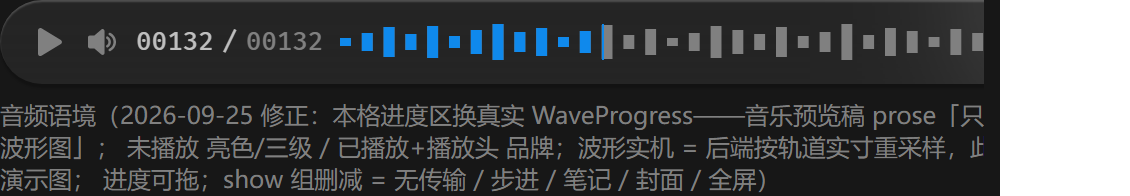
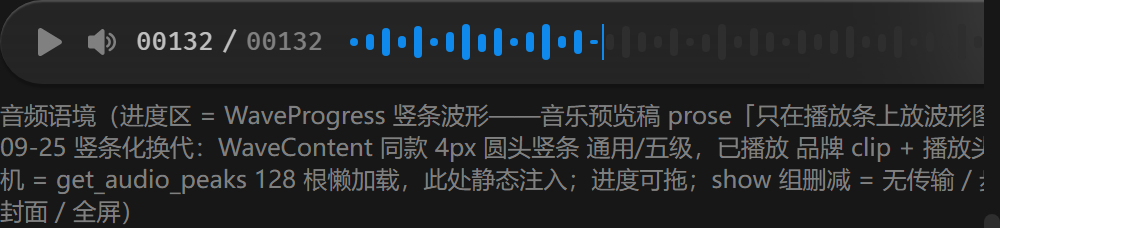
feat(波形): 播放条波形竖条化——WaveProgress 复用 WaveContent 统一全 app 波形观感（4px 圆头竖条 + get_audio_peaks 128 根），5.1 发丝 hires 图方案退役；PlayBarSpec.waveFallback 简化为 wave 族标志；get_waveform 全链删除（速查 §59 追加）

Changed region(s): [[0.0, 0.4592, 0.8982, 0.9796], [0.031, 0.0918, 0.8673, 0.3061], [0.8053, 0.3673, 0.8982, 0.4286]]

diff --git a/src/components/bars/WaveProgress.vue b/src/components/bars/WaveProgress.vue
@@ -1,29 +1,39 @@
 <script setup lang="ts">
-// 音频波形进度条（音乐预览稿 prose：「只在播放条上放波形图即可」）——播放条进度条的音频变体，
-// 供 FloatBarPlay #progress 插槽替换 BarSlider（2026-09-09 预览悬浮栏接入轮，自旧 PlayBarAudio 移植）：
-// 两层 div 以波形图作 CSS mask（alpha 通道铺满）：底层 = 未播放 亮色/三级实色（旧 wave-pending
-// 「标签档不透明版」2026-08-10 用户定的语义档映射——mask 层不受 alpha 影响须实色）；
-// 已播放层 = 品牌底 clip-path 裁到进度；播放头 1px 品牌竖线。
-// 波形图 = 后端按轨道实际像素重采样（useHiresWaveform 返回磁盘路径，本组件 convertFileSrc 转
-// asset URL——裸路径塞 CSS url() 必加载失败，踩坑 088），未就绪/失败回退 info 波形缩略图（fallbackUrl，
-// 调用方已转换）。
+// 音频波形进度条（2026-09-25 竖条化换代，用户定：全 app 波形观感统一为文件卡片-音频稿竖条
+// 新样式——卡片 WaveContent / 详情 pinned 均已同源，播放条是最后一处旧 5.1 发丝渲染）：
+// 渲染 = WaveContent 直接复用（竖线 4px 圆头 99 gap 4 通用/五级，played 同构层品牌色 clip 进度），
+// 播放条语境差两笔 = inset 12→0 满幅、played 层祖先态显隐→恒显（下方 :deep 覆盖）；
+// 数据 = get_audio_peaks 128 根 cardPeaksFor 懒加载（SectionPinned 同范式），peaks 失败 = 空波形；
+// 播放头 1px 品牌竖线保留。旧 hires 重采样图 + CSS mask 方案退役（get_waveform 全链删除）。
 // 交互 = pointerdown 跳值 + window pointermove 拖动（BarSlider 同款链路，drag-start/end 透传 scrubbing 挂钩）。
-import { computed, ref } from "vue";
-import { convertFileSrc } from "@tauri-apps/api/core";
-import { useHiresWaveform } from "../../lib/useHiresWaveform";
+import { ref, watch } from "vue";
+import WaveContent from "../cards/contents/WaveContent.vue";
+import { cardPeaksFor } from "../../lib/cardPeaks";
+import { usePreviewStore } from "../../stores/preview";
 
-const props = withDefaults(defineProps<{ fallbackUrl?: string | null }>(), { fallbackUrl: null });
+const props = withDefaults(defineProps<{ peaks?: number[] }>(), { peaks: undefined });
 const model = defineModel<number>({ default: 0 }); // 0~1
 const emit = defineEmits<{ "drag-start": []; "drag-end": [] }>();
 
+const preview = usePreviewStore();
 const rootEl = ref<HTMLElement>();
-const hiresPath = useHiresWaveform(rootEl);
-// hiresPath 是磁盘绝对路径——必须 convertFileSrc 转 asset URL（裸路径塞 CSS url() 按相对
-// 地址解析必然加载失败：mask 空 = 层不可见只剩播放头，2026-09-25 实机报，踩坑 088）；
-// fallbackUrl 已由调用方（barSpecs audio waveFallback）转换好，不再二转
-const waveUrl = computed(() => (hiresPath.value ? convertFileSrc(hiresPath.value) : (props.fallbackUrl ?? null)));
-// 两层 mask 共用的图地址（CSS 变量下发，mask 走 alpha 通道）
-const waveMask = computed(() => (waveUrl.value ? { "--wave-url": `url("${waveUrl.value}")` } : {}));
+
+// peaks 懒加载（SectionPinned 同范式：await 期间切素材防错配）；props.peaks 提供 = 演示注入优先
+const fetchedPeaks = ref<number[]>([]);
+watch(
+  () => preview.current,
+  async (cur) => {
+    if (!cur) {
+      fetchedPeaks.value = [];
+      return;
+    }
+    const id = cur.assetId;
+    const p = await cardPeaksFor(cur);
+    if (preview.current?.assetId !== id) return;
+    fetchedPeaks.value = p;
+  },
+  { immediate: true },
+);
 
 function setFromX(clientX: number): void {
   const el = rootEl.value;
@@ -47,17 +57,15 @@ function onDown(e: PointerEvent): void {
 </script>
 
 <template>
-  <div ref="rootEl" class="wp-root" :style="waveMask" style="touch-action: none" @pointerdown="onDown">
-    <template v-if="waveUrl">
-      <div class="wave-layer base" />
-      <div class="wave-layer played" :style="{ clipPath: `inset(0 ${(1 - model) * 100}% 0 0)` }" />
-    </template>
+  <div ref="rootEl" class="wp-root" style="touch-action: none" @pointerdown="onDown">
+    <WaveContent :peaks="props.peaks ?? fetchedPeaks" :progress="model" />
     <span class="head" :style="{ left: `${model * 100}%` }" />
   </div>
 </template>
 
 <style scoped>
-/* 根：满父宽、满播放条内容高（42 - padding 12×2 = 18），圆角 4 裁波形（沿用旧口径） */
+/* 根：满父宽、满播放条内容高（42 - padding 12×2 = 18，父 .fbp-progress align-self stretch 供给，
+   §59），圆角 4 裁波形（沿用旧口径） */
 .wp-root {
   position: relative;
   width: 100%;
@@ -66,23 +74,13 @@ function onDown(e: PointerEvent): void {
   overflow: hidden;
   cursor: pointer;
 }
-.wave-layer {
-  position: absolute;
+/* WaveContent 播放条语境差：卡片 inset 12 → 满幅 0；played 扫过层卡片靠祖先 hover/playing 显隐
+   （.fc-root 语境）→ 播放条恒显（进度本色语义，无悬停概念） */
+.wp-root :deep(.fc-wave) {
   inset: 0;
-  -webkit-mask-image: var(--wave-url);
-  mask-image: var(--wave-url);
-  -webkit-mask-size: 100% 100%;
-  mask-size: 100% 100%;
-  -webkit-mask-repeat: no-repeat;
-  mask-repeat: no-repeat;
-  pointer-events: none;
 }
-.wave-layer.base {
-  background: var(--n-l3); /* 未播放 = 亮色/三级实色（旧 wave-pending 语义档映射） */
-}
-.wave-layer.played {
-  background: var(--n-brand);
-  z-index: 1;
+.wp-root :deep(.fc-wave-row.played) {
+  opacity: 1;
 }
 .head {
   position: absolute;

diff --git a/src/lib/barSpecs/audio.ts b/src/lib/barSpecs/audio.ts
@@ -1,9 +1,8 @@
 // 音频播放条 spec（旧 PlayBarAudio 删减口径）：无 快退/快进/逐帧/笔记/设封面/全屏（无画面）；
-// 进度区 = 波形（音乐预览稿 prose「只在播放条上放波形图即可」——waveFallback 提供回退图，
-// 高清重采样在 WaveProgress 内 useHiresWaveform）；时间码恒 mm:ss（音频无 fps 天然回退）。
+// 进度区 = 竖条波形（wave 标志——音乐预览稿 prose「只在播放条上放波形图即可」；2026-09-25 竖条化
+// 后 peaks 由 WaveProgress 自拉 cardPeaksFor，spec 只标族不供数）；时间码恒 mm:ss（音频无 fps 天然回退）。
 import { usePreviewStore } from "../../stores/preview";
 import { usePreviewMediaStore } from "../../stores/previewMedia";
-import { convertFileSrc } from "@tauri-apps/api/core";
 import { formatDuration } from "../formatDuration";
 import type { PlayBarSpec } from "./types";
 
@@ -33,9 +32,6 @@ export function makeAudioSpec(): PlayBarSpec {
     toggleFullscreen: () => preview.setFullscreen(!preview.fullscreen),
     dragStart: () => media.setScrubbing(true),
     dragEnd: () => media.setScrubbing(false),
-    waveFallback: () => {
-      const p = preview.current?.thumbPath;
-      return p ? convertFileSrc(p) : null;
-    },
+    wave: true,
   };
 }

diff --git a/src/components/FloatBarHost.vue b/src/components/FloatBarHost.vue
@@ -319,11 +319,10 @@ function noteRemove(i: number): void {
       @progress-drag-start="spec?.dragStart?.()"
       @progress-drag-end="spec?.dragEnd?.()"
     >
-      <!-- 音频语境：进度区换波形（spec.waveFallback 提供 = 音频族；音乐预览稿 prose） -->
-      <template v-if="spec?.waveFallback" #progress>
+      <!-- 音频语境：进度区换竖条波形（spec.wave = 音频族标志；音乐预览稿 prose「只在播放条上放波形图」） -->
+      <template v-if="spec?.wave" #progress>
         <WaveProgress
           v-model="progressModel"
-          :fallback-url="spec.waveFallback()"
           @drag-start="spec?.dragStart?.()"
           @drag-end="spec?.dragEnd?.()"
         />

diff --git a/src/lib/barSpecs/types.ts b/src/lib/barSpecs/types.ts
@@ -52,5 +52,5 @@ export interface PlayBarSpec {
   dragStart?(): void; // 进度拖动起止（scrubbing 挂钩；无此概念的格式缺省）
   dragEnd?(): void;
   frames?: FrameStripSpec; // 帧条（sequence / anim）
-  waveFallback?(): string | null; // 音频波形回退图（提供 = 进度区换 WaveProgress）
+  wave?: boolean; // 音频族标志（true = 进度区换 WaveProgress 竖条波形，2026-09-25 由 waveFallback 函数简化为标志——竖条化后 peaks 由 WaveProgress 自拉，spec 无需供数）
 }

diff --git a/src-tauri/src/commands/media.rs b/src-tauri/src/commands/media.rs
@@ -23,7 +23,7 @@ use crate::core::json_io::write_json;
 use crate::core::library::CACHE_DIR;
 use crate::core::models::AssetMeta;
 use crate::core::space::WORKSPACE_DIR;
-use crate::services::{media, thumbnail, workspace as ws};
+use crate::services::{media, workspace as ws};
 
 /// 音视频播放源解析结果
 #[derive(Debug, Serialize, PartialEq)]
@@ -235,71 +235,6 @@ fn transcode_workspace_source(ws_root: &Path, origin: &Path, is_video: bool) -> 
   Ok(MediaSource { path: out.to_string_lossy().into_owned(), transcoded: true, fps: None })
 }
 
-// ---------- 波形图按需重采样 ----------
-
-/// 波形图渲染尺寸钳制范围（防前端异常值）：宽 32~7680、高 8~1080
-const WAVE_W: std::ops::RangeInclusive<u32> = 32..=7680;
-const WAVE_H: std::ops::RangeInclusive<u32> = 8..=1080;
-
-/// 按需重采样波形图结果
-#[derive(Debug, Serialize, PartialEq, Eq)]
-#[serde(rename_all = "camelCase")]
-pub struct WaveformImage {
-  /// 重采样波形图绝对路径（cache/waveforms/{assetId}_{宽}x{高}.webp）
-  pub path: String,
-}
-
-/// 按需重采样波形图（2026-07-26 波形清晰度修复）：前端按播放条 / 预览大图实际显示像素
-/// （CSS px × devicePixelRatio）请求，后端按该尺寸重渲 PCM 波形（渲染口径同 5.1 定稿，
-/// 任意宽度 1px 级清晰，对齐 Eagle），产物缓存 cache/waveforms/（会话级，开库清空），
-/// 已存在直给不重渲。非音频资源中文报错；ffmpeg 缺失 / 提取失败给中文文案（前端回退
-/// info 缩略图拉伸旧行为）。短锁快照后重采样 / 落盘走锁外线程池（规范第 2 条）；
-/// 产物按 宽x高 文件名幂等，无需并发去重
-#[tauri::command]
-pub async fn get_waveform(
-  state: State<'_, AppState>,
-  asset_id: String,
-  width: u32,
-  height: u32,
-) -> Result<WaveformImage, String> {
-  // 短锁快照：定位资源、克隆所需字段后立即放锁（原因同 get_media_source）
-  let (origin, meta, root) = {
-    let guard = state.library.lock().map_err(|e| e.to_string())?;
-    let lib = guard.as_ref().ok_or_else(|| "请先打开素材库".to_string())?;
-    let (_info_dir, origin, meta) = locate_asset(lib, &asset_id)?;
-    (origin, meta, lib.root.clone())
-  };
-  tauri::async_runtime::spawn_blocking(move || waveform(&origin, &meta, &root, &asset_id, width, height))
-    .await
-    .map_err(|e| format!("波形图任务失败：{e}"))?
-}
-
-fn waveform(origin: &Path, meta: &AssetMeta, root: &Path, asset_id: &str, width: u32, height: u32) -> Result<WaveformImage, String> {
-  if !media::is_audio(origin) {
-    return Err(format!("「{}」不是音频资源", meta.name));
-  }
-  let (w, h) = clamp_wave_size(width, height);
-  let dir = root.join(CACHE_DIR).join("waveforms");
-  let out = dir.join(format!("{asset_id}_{w}x{h}.webp"));
-  if out.is_file() {
-    return Ok(WaveformImage { path: out.to_string_lossy().into_owned() });
-  }
-  if !ffmpeg::ffmpeg_available() {
-    return Err("音视频组件缺失，无法生成波形图".to_string());
-  }
-  let Some(img) = media::waveform_image_sized(&origin, w, h) else {
-    return Err("波形提取失败，请检查音频文件".to_string());
-  };
-  fs::create_dir_all(&dir).map_err(|e| format!("波形缓存目录创建失败：{e}"))?;
-  thumbnail::save_webp(&image::DynamicImage::ImageRgba8(img), &out).map_err(|e| format!("波形图保存失败：{e}"))?;
-  Ok(WaveformImage { path: out.to_string_lossy().into_owned() })
-}
-
-/// 波形图请求尺寸钳制（前端异常值不炸渲染：过小糊成一团、过大撑爆内存）
-fn clamp_wave_size(w: u32, h: u32) -> (u32, u32) {
-  (w.clamp(*WAVE_W.start(), *WAVE_W.end()), h.clamp(*WAVE_H.start(), *WAVE_H.end()))
-}
-
 // ---------- 卡片波形 peaks（2026-09-22 R6 卡片三变体接线 · audio 变体） ----------
 
 /// 音频卡片波形 peaks（稿 = 组件/卡片/文件卡片-音频 竖线波形数据通道，media::CARD_PEAKS 根
@@ -397,40 +332,6 @@ mod tests {
   fn snap(h: &Harness, id: &str) -> (PathBuf, PathBuf, AssetMeta, PathBuf) {
     let (info_dir, origin, meta) = locate_asset(&h.lib, id).unwrap();
     (info_dir, origin, meta, h.lib.root.clone())
-  }
-
-  #[test]
-  fn clamp_wave_size_bounds() {
-    assert_eq!(clamp_wave_size(1, 1), (32, 8));
-    assert_eq!(clamp_wave_size(99999, 99999), (7680, 1080));
-    assert_eq!(clamp_wave_size(1200, 48), (1200, 48));
-  }
-
-  #[test]
-  fn waveform_rejects_non_audio_and_serves_cache_idempotently() {
-    let mut h = make_lib();
-    // 非音频资源中文报错
-    add_file(&mut h, "AN-PIC", "参考图.png");
-    let (_i, origin, meta, root) = snap(&h, "AN-PIC");
-    let err = waveform(&origin, &meta, &root, "AN-PIC", 640, 272).unwrap_err();
-    assert!(err.contains("不是音频资源"), "{err}");
-
-    // 缓存命中直给（命中判定先于二进制检查：无 ffmpeg / 假字节也直接返回）
-    add_file(&mut h, "AN-AU", "配乐.mp3");
-    let out = h.lib.root.join(CACHE_DIR).join("waveforms").join("AN-AU_1200x48.webp");
-    fs::create_dir_all(out.parent().unwrap()).unwrap();
-    fs::write(&out, b"webp").unwrap();
-    let (_i, origin, meta, root) = snap(&h, "AN-AU");
-    let r = waveform(&origin, &meta, &root, "AN-AU", 1200, 48).unwrap();
-    assert_eq!(r, WaveformImage { path: out.to_string_lossy().into_owned() });
-    // 幂等：已存在不重写（mtime 不变）
-    let mtime = fs::metadata(&out).unwrap().modified().unwrap();
-    waveform(&origin, &meta, &root, "AN-AU", 1200, 48).unwrap();
-    assert_eq!(fs::metadata(&out).unwrap().modified().unwrap(), mtime);
-
-    // 未命中且源是假字节：组件缺失 / 提取失败 中文文案（按环境有无 ffmpeg 二选一）
-    let err = waveform(&origin, &meta, &root, "AN-AU", 640, 272).unwrap_err();
-    assert!(err.contains("组件缺失") || err.contains("波形提取失败"), "{err}");
   }
 
   #[test]

diff --git a/src-tauri/src/services/media.rs b/src-tauri/src/services/media.rs
@@ -27,9 +27,6 @@ const BAR_RGB: [u8; 3] = [0x5B, 0x62, 0x61];
 /// 卡片缩略图柱 alpha（100%——柱色本身即按黑底调好的不透明实色，2026-08-10；
 /// 原 60% 透明叠底方案随实色化作废）
 const THUMB_ALPHA: u8 = 255;
-/// 播放条 / 预览大图柱 alpha（100%——前端走 CSS mask 调色，mask 取图 alpha：
-/// 60% 会把品牌紫稀释成 60%，故 mask 用途必须满 alpha，2026-07-26 用户定）
-const MASK_ALPHA: u8 = 255;
 /// 波形上下留白（px，272 高大图口径）；小高度按 h/27 等比收缩（见 render_waveform）——
 /// 恒 10 会把 18px 播放条请求的振幅吃成 0（全图只剩 1px 中线 = 看起来全空，2026-09-25 实机报）
 const WAVEFORM_MARGIN: u32 = 10;
@@ -120,12 +117,6 @@ pub fn video_first_frame(path: &Path) -> Option<RgbaImage> {
 /// mono 源 ffmpeg 复制成双声道自然对称）；缩略图与冲突弹窗预览共用
 pub fn waveform_image(path: &Path) -> Option<RgbaImage> {
   waveform_image_sized_alpha(path, WAVEFORM_WIDTH, WAVEFORM_HEIGHT, THUMB_ALPHA)
-}
-
-/// 按任意尺寸重采样波形图（播放条 / 预览大图按实际显示像素请求重渲，1px 级清晰，2026-07-26 定）：
-/// 渲染口径同 5.1 定稿，**alpha 恒 100%**——前端 CSS mask 调色（mask 取图 alpha，60% 会稀释品牌紫）
-pub fn waveform_image_sized(path: &Path, width: u32, height: u32) -> Option<RgbaImage> {
-  waveform_image_sized_alpha(path, width, height, MASK_ALPHA)
 }
 
 /// 按尺寸与柱 alpha 渲染波形图（内部共用）
@@ -306,9 +297,10 @@ mod tests {
 
   #[test]
   fn render_waveform_mask_alpha_is_solid() {
-    // 播放条 / 预览大图（MASK_ALPHA=255）：柱 alpha 满色——前端 CSS mask 调色不被稀释
+    // bar_alpha 参数直通：255 入 = 柱 alpha 满色（历史 = 播放条 CSS mask 调色不被稀释，
+    // mask 方案 2026-09-25 退役，参数行为保留作渲染函数契约）
     let samples: Vec<f32> = (0..4096).map(|i| if i % 2 == 0 { 0.5 } else { -0.5 }).collect();
-    let img = render_waveform(&samples, &samples, 1200, 48, MASK_ALPHA);
+    let img = render_waveform(&samples, &samples, 1200, 48, 255);
     assert_eq!(img.get_pixel(10, 24).0[3], 255, "mask 用途柱 alpha 必须满色");
   }
 
@@ -328,7 +320,7 @@ mod tests {
     // 回归钉（2026-09-25 实机报）：18px 播放条高请求，留白恒 10 时 max_half 被吃成 0、
     // 全图只剩 1px 中线（看起来全空）——留白等比收缩后 0.8 振幅柱顶距中线约 7px
     let samples: Vec<f32> = (0..4096).map(|i| if i % 2 == 0 { 0.8 } else { -0.8 }).collect();
-    let img = render_waveform(&samples, &samples, 1200, 18, MASK_ALPHA);
+    let img = render_waveform(&samples, &samples, 1200, 18, 255);
     assert!(img.get_pixel(10, 3).0[3] > 0, "18px 高小图振幅不应被留白吃光（cy-6 处应有波形）");
   }
 

diff --git a/src-tauri/src/lib.rs b/src-tauri/src/lib.rs
@@ -347,7 +347,6 @@ pub fn run() {
       commands::thumb_frame::set_video_thumb,
       commands::media::get_media_source,
       commands::media::get_media_source_by_path,
-      commands::media::get_waveform,
       commands::media::get_audio_peaks,
       commands::font::get_font_info,
       commands::font::install_font,

diff --git a/docs/05_接口文档/命令/18_音视频播放与逐帧笔记.md b/docs/05_接口文档/命令/18_音视频播放与逐帧笔记.md
@@ -2,8 +2,7 @@
 
 **音视频播放与逐帧笔记（5.2；视频 5.3 终版回归 `<video>` 直读，本组 get_media_source 恢复全量路由）：**
 		- `get_media_source(assetId: string) -> { path: string, transcoded: boolean, fps: number | null }` —— **音视频播放源解析（5.2；5.3 曾收窄音频专用，2026-08-22 晚视频回归 `<video>` 直读后恢复全量）**：`get_media_source(assetId, forceTranscode?)` **直读优先 + 播放错误回退（2026-09-13 定案，废除 ffprobe 探测分流——探测白名单把本可直解的 HEVC 也送进软编码转码，踩坑 075）**：一律先直给源文件绝对路径（`transcoded: false`，零探测零等待；HEVC 等编码 WebView2 经 Windows Media Foundation 直解，与 Eagle 同机制——Eagle 能播的本机即无需转码；asset protocol Range 实测完好：1080p25 seek 5-40ms、scrub 全跟手，见踩坑 049）；前端 `<video>`/`<audio>` 播放 error 后带 `forceTranscode: true` 重调 → ffmpeg 转码兜底（`transcoded: true`）→ `cache/media/media-{assetId}.mp4|.wav`（libopenh264+aac / pcm_s16le；**跨会话保留**——原 cache/tmp 开库清空导致每会话首次播放都重转、CPU 长时间满载，用户实机定持久化）。前端四个播放点（HoverVideoLayer / HoverAudioLayer / previewMedia / TabLinks）均接 error 回退，每素材只回退一次。**error 回退分两级（2026-09-24，踩坑 086——用户实机拖进度到开头偶发「转码中…」白等，error 不读 MediaError.code 把 seek / 硬解管线瞬时错误误诊成格式不可播）**：`MediaError.code !== MEDIA_ERR_SRC_NOT_SUPPORTED`（DECODE / NETWORK 等瞬时错误）且本素材未重试过 → 先同源 `load()` 直读重试一次（loadedmetadata 恢复原播放位置续播，全程不出「转码中…」提示），重试仍 error 才落转码兜底；SRC_NOT_SUPPORTED（真格式不支持，首装即报）直落转码不白试。**转码幂等**：产物旁 .stamp 记源文件 "大小:mtime秒"，一致直接复用不重复转码，源变化重转；复用判定先于二进制检查。非音视频资源报"「名」不是音视频资源"；ffmpeg 缺失报"音视频组件缺失，无法播放该格式"；转码失败报"该格式暂时无法播放"。**fps 字段**（视频，无 fps 时 null）：存量视频 metadata 无 fps 首次播放补探测写回（先落盘 metadata.json 再同步内存索引，规范第 7 条；成功广播 `video-fps-healed { assetId, fps }`，content store 监听同步全部 Placement 的 fps）——播放条帧号 / 逐帧步进立即正确；探测失败静默跳过不阻塞播放。**锁外化（2026-09-13 视频多选 / 排序卡死根治，踩坑 074）**：探测 / 转码全程不占全局库锁（短锁快照 info_dir/origin/meta/root → spawn_blocking 锁外重活 → fps 自愈先落盘 metadata.json 再短锁同步内存索引并广播）；同资产并发调用经 per-asset tokio Mutex 串行化去重（后者 stamp 命中直接复用产物），前端 mediaOps.getMediaSource 另有 in-flight Map 共享同一趟解析
-		- `get_waveform(assetId: string, width: number, height: number) -> { path: string }` —— 波形图按需重采样（2026-07-26 波形清晰度修复，对齐 Eagle）：前端按播放条 / 预览大图实际显示像素（CSS px × devicePixelRatio，防抖 250ms）请求，后端按该尺寸重渲 PCM 波形（渲染口径同 5.1 定稿：每像素 1 列 min/max 满色纵线 + 仅竖向 1px 柔化 + 上半左下半右声道分绘 + 静音细中线；**柱 alpha 恒 100%**——前端 CSS mask 调色取图 alpha，60% 会稀释品牌紫，2026-07-26 用户定；`waveform_image` 卡片缩略图 640×272 保持 60% alpha 签名不变），任意宽度 1px 级清晰。宽高钳制 32~7680 / 8~1080（防前端异常值）；产物缓存 `cache/waveforms/{assetId}_{宽}x{高}.webp`（**会话级，开库清空名单已收录**），已存在直给不重渲。非音频资源报"「名」不是音频资源"；ffmpeg 缺失报"音视频组件缺失，无法生成波形图"；提取失败报"波形提取失败，请检查音频文件"——前端失败回退 info 波形缩略图拉伸旧行为。前端播放条配色同步改版（2026-07-26 用户定，Eagle 蓝/灰对比的紫/灰版）：两层 div 以波形图作 CSS mask（alpha 通道，mask-size 100% 100%），底层 wave-pending 实色 = 未播放（font-icon-3 60% 与 C3 混合的实际色号，新增 token）、上层 brand-1 clip-path 裁到进度 = 已播放，播放头 1px brand-1 不变。锁外化（2026-09-13 同 get_media_source，踩坑 074）：重采样与产物落盘不占全局库锁
-		- `get_audio_peaks(assetId: string) -> number[]` —— **音频卡片波形 peaks（2026-09-22 R6 卡片三变体接线 · audio 变体，稿 = 组件/卡片/文件卡片-音频 竖线波形数据通道）**：mono 混音 PCM（8kHz，-ac 1 不分声道——稿 prose「不用分析上下立体声差异」）均分 **恒定 128 桶**取 max-abs 联合归一（0..1；**根数不随时长**——稿 prose「5 秒与 3 分钟根数一致、美观第一位」；前端 WaveContent 按卡宽 ÷ 节距 8 max 池化重采样）。产物 `cache/peaks/{assetId}.json` **跨会话保留**（同 cache/media 口径——全量 PCM 解码与转码同级开销，开库清空会让每次启动首轮滚网格全量重解码；.stamp 记源 "大小:mtime秒" 防漂移，复用判定先于二进制检查），不在开库清空名单。短锁快照后解码走锁外线程池（规范第 2 条）。非音频报"「名」不是音频资源"；ffmpeg 缺失报"音视频组件缺失，无法生成波形"；解码失败报"波形提取失败，请检查音频文件"——前端 cardPeaksFor 失败回退空数组（空波形 = 纯色底）并缓存，modifiedAt 变化自然重试
+		- `get_audio_peaks(assetId: string) -> number[]` —— **音频竖条波形 peaks（2026-09-22 R6 卡片三变体接线 · audio 变体，稿 = 组件/卡片/文件卡片-音频 竖线波形数据通道；2026-09-25 起播放条 WaveProgress 同源消费——全 app 波形观感统一竖条样式，旧 get_waveform hires 图 + CSS mask 方案同日退役删除）**：mono 混音 PCM（8kHz，-ac 1 不分声道——稿 prose「不用分析上下立体声差异」）均分 **恒定 128 桶**取 max-abs 联合归一（0..1；**根数不随时长**——稿 prose「5 秒与 3 分钟根数一致、美观第一位」；前端 WaveContent 按卡宽 ÷ 节距 8 max 池化重采样）。产物 `cache/peaks/{assetId}.json` **跨会话保留**（同 cache/media 口径——全量 PCM 解码与转码同级开销，开库清空会让每次启动首轮滚网格全量重解码；.stamp 记源 "大小:mtime秒" 防漂移，复用判定先于二进制检查），不在开库清空名单。短锁快照后解码走锁外线程池（规范第 2 条）。非音频报"「名」不是音频资源"；ffmpeg 缺失报"音视频组件缺失，无法生成波形"；解码失败报"波形提取失败，请检查音频文件"——前端 cardPeaksFor 失败回退空数组（空波形 = 纯色底）并缓存，modifiedAt 变化自然重试
 
 	- **字体与文本（5.6，2026-08-23）：**
 		- `get_font_info(assetId: string) -> { originPath, name, fullName, family, style, version, glyphCount, installed, hasCjk }` —— 字体预览数据源：name 表元数据（名称 = PostScript 名 / 全名 / 系列 / 样式 / 版本，英文 en-US 优先回退第一条；字数 = num_glyphs）+ origin 绝对路径（前端 FontFace API 加载预览字体，webview 原生排版，后端不重渲染）+ 系统安装状态（HKCU 注册表 Fonts 项查值名）+ **hasCjk（2026-09-22 R6 font 接线补）= cmap 是否覆盖中文（'永' U+6C38），字体卡片示例字分流用（中文四行 / 拉丁三行，与样张字样同口径）**。格式 = ttf / otf / ttc（woff 系后置）。非字体报"「名」不是字体资源"，解析失败报"字体文件解析失败"。解析 = ttf-parser（纯 Rust）；缩略图 = fontdue 样张渲染走 thumb_formats 适配器（cmap 含中文 '永' → 四行「永和九年 / 歲在癸丑 / AaBbCcDd / 01234567」，否则三行「ABCDEFG / abcdefg / 0123456」，Eagle 同款口径；样张 640×480 透明底、字色 = 常态色实色部 7 折 alpha）

diff --git a/docs/02_开发日志/2026-09/2026-09-25_04_播放条波形竖条化——全app波形观感统一与get_waveform退役.md b/docs/02_开发日志/2026-09/2026-09-25_04_播放条波形竖条化——全app波形观感统一与get_waveform退役.md
@@ -1,0 +1,25 @@
+# 2026-09-25_04 播放条波形竖条化——全 app 波形观感统一，get_waveform 退役
+
+2026-09-25
+
+## 需求
+
+用户实机（09-25_03 波形链路全通后）：「播放条为什么是旧样式？新样式不是已经改了么」——卡片波形 09-22 R6 已换竖条新样式（WaveContent，4px 圆头竖条 + get_audio_peaks 128 根），详情 pinned 09-23 已同源，播放条还是 5.1 时代的发丝细密风 hires 图，是最后一处旧渲染。
+
+## 落地
+
+**WaveProgress 竖条化**：`src/components/bars/WaveProgress.vue` 重写——渲染直接复用 WaveContent（竖线 4px 圆头 99 gap 4 通用/五级，played 同构层品牌色 clip 进度），播放条语境差两笔走 `:deep` 覆盖（卡片 inset 12 → 满幅 0；played 层祖先 hover/playing 显隐 → 恒显）；数据改 `cardPeaksFor(preview.current)` 懒加载（get_audio_peaks 128 根，SectionPinned 同范式防错配）；播放头 1px 品牌竖线保留。补 `peaks?` prop 供演示注入。
+
+**spec 链简化**：`PlayBarSpec.waveFallback(): string | null`（供图函数）→ `wave?: boolean`（族标志）——竖条化后 peaks 由 WaveProgress 自拉，spec 只标族不供数；barSpecs/audio、FloatBarHost 同步。
+
+**get_waveform 全链删除**（竖条化后零消费方）：useHiresWaveform.ts、commands/media.rs 命令 + waveform/clamp_wave_size/WaveformImage + 两测试、lib.rs 注册、services/media.rs waveform_image_sized（MASK_ALPHA 常量随删、测试改字面量）；render_waveform 本体保留（info 缩略图 272 高仍在产，09-25_02 的 margin 等比修复与小高度回归钉继续有效）。接口文档 18 删 get_waveform 条目、get_audio_peaks 条目补播放条同源消费；MCP通道.md 只读白名单名单同步除名。cache/waveforms 开库清空名单保留不动（清存量文件用）。
+
+**preview 页**：音频波形格 data-uri 演示机制废除，改静态 peaks 注入（demoWavePeaks 40 根）。
+
+## 验证
+
+`pnpm typecheck` 绿；`cargo test` 全量 486 绿（waveform 两测试随删除链移除）；preview 页截图目验（tools/style-preview/audio-bar-wave.png）：蓝已播 40% + 灰未播 4px 圆头竖条 + 播放头，与卡片完全同款。实机观感（peaks 实拉、随壳宽动画竖条数自适应）待用户走查。
+
+## 文档
+
+速查 §59 追加（同日四轮：竖条化统一 + get_waveform 退役清单）并登记 Index；月 Index 登记。

diff --git a/docs/02_开发日志/2026-09/Index.md b/docs/02_开发日志/2026-09/Index.md
@@ -1,8 +1,8 @@
 # 2026-09 开发日志
 
-> 本月 184 个任务文件（命名 `YYYY-MM-DD[_NN]_标题.md`）。总目录见 [Index](../../Index.md）。
+> 本月 185 个任务文件（命名 `YYYY-MM-DD[_NN]_标题.md`）。总目录见 [Index](../../Index.md）。
 
-- **2026-09-25**：[01_音频音乐预览落地与播放条波形塌陷修复（PreviewAudio 唱片立姿换代波形大图，previewSpecs audio；.fbp-progress align-self stretch 根治；§59）](2026-09-25_01_音频音乐预览落地与播放条波形塌陷修复.md) · [02_播放条高清波形空白修复（render_waveform 留白恒 10px 吃光 18px 振幅 → 等比收缩 h/27；踩坑 087，§59 追加）](2026-09-25_02_播放条高清波形空白修复——波形渲染留白等比收缩.md) · [03_播放条波形全空根治（hiresPath 磁盘路径未走 convertFileSrc 顶掉回退旧图；踩坑 088，§59 追加）](2026-09-25_03_播放条波形全空根治——hiresPath补convertFileSrc.md)
+- **2026-09-25**：[01_音频音乐预览落地与播放条波形塌陷修复（PreviewAudio 唱片立姿换代波形大图，previewSpecs audio；.fbp-progress align-self stretch 根治；§59）](2026-09-25_01_音频音乐预览落地与播放条波形塌陷修复.md) · [02_播放条高清波形空白修复（render_waveform 留白恒 10px 吃光 18px 振幅 → 等比收缩 h/27；踩坑 087，§59 追加）](2026-09-25_02_播放条高清波形空白修复——波形渲染留白等比收缩.md) · [03_播放条波形全空根治（hiresPath 磁盘路径未走 convertFileSrc 顶掉回退旧图；踩坑 088，§59 追加）](2026-09-25_03_播放条波形全空根治——hiresPath补convertFileSrc.md) · [04_播放条波形竖条化（WaveProgress 复用 WaveContent 统一全 app 波形观感；get_waveform 全链退役；§59 追加）](2026-09-25_04_播放条波形竖条化——全app波形观感统一与get_waveform退役.md)
 
 - **2026-09-24**：[01_免安装包重打（含重命名链路两连；robocopy /MIR 换正绕 plugins 句柄锁，.new 残留待释放；冒烟 17701 听 + 收尸干净）](2026-09-24_01_免安装包重打.md) · [02_拖进度偶发「转码中…」修复（error 回退不读 MediaError.code 一刀切转码——瞬时错误先直读重试分两级，四播放点同口径；踩坑 086）](2026-09-24_02_拖进度偶发转码中修复——error回退分错误码，瞬时错误先直读重试.md)
 

diff --git a/docs/06_UI重构/规范/口径速查/59_音频音乐预览落地与播放条波形塌陷修复（2026-09-25）.md b/docs/06_UI重构/规范/口径速查/59_音频音乐预览落地与播放条波形塌陷修复（2026-09-25）.md
@@ -14,3 +14,7 @@
 ## 同日三轮：hires 图顶掉回退旧图后全空 = 磁盘路径未走 convertFileSrc（踩坑 088）
 
 - 后端修好后实机仍全空（连旧图接力都没了）：排查先验产物（PIL 量 hires 图 alpha 满幅正常）再验 scope（assetProtocol `**`）最后比 URL——WaveProgress `waveUrl = hiresPath ?? fallbackUrl` 中 **hiresPath 是磁盘绝对路径原样塞 CSS url()**（fallback 已由调用方 convertFileSrc），按相对地址解析必加载失败 → mask 空遮罩 → 层不可见；hires 一返回坏 URL 反而顶掉能显示的旧图。修复 = WaveProgress 内 hiresPath 补 convertFileSrc。教训 = **磁盘路径进 web 层（img src / CSS url / mask）必须过 convertFileSrc，跨组件接力逐段确认谁转了谁没转**；探针环境无 asset 协议测不出此类错误（探针截图与实机同形不同因）。
+
+## 同日四轮：播放条波形竖条化——全 app 波形观感统一，get_waveform 退役
+
+- 链路修通后用户定样式方向：播放条波形对齐**文件卡片-音频稿竖条新样式**（卡片 WaveContent / 详情 pinned 已同源，播放条是最后一处 5.1 发丝旧渲染）。落地 = **WaveProgress 重写复用 WaveContent**（4px 圆头竖条 通用/五级 + played 品牌 clip 恒显 + 播放头），语境差两笔 `:deep` 覆盖（inset 12→0、played 层 opacity 恒 1）；数据换 `cardPeaksFor`（get_audio_peaks 128 根），`PlayBarSpec.waveFallback()` 供图函数简化为 `wave?: boolean` 族标志。**get_waveform 全链退役删除**（命令 / 注册 / useHiresWaveform / waveform_image_sized / 接口文档条目）；render_waveform 保留（info 缩略图仍在产，h/27 留白修复继续有效）。教训 = **样式换代要扫全部消费点**——卡片三变体接线（09-22）换代时漏了播放条这处（当时播放条走另一条 hires 图数据链，不在卡片同源视野内），跨链路的观感统一靠用户实机走查兜底。
